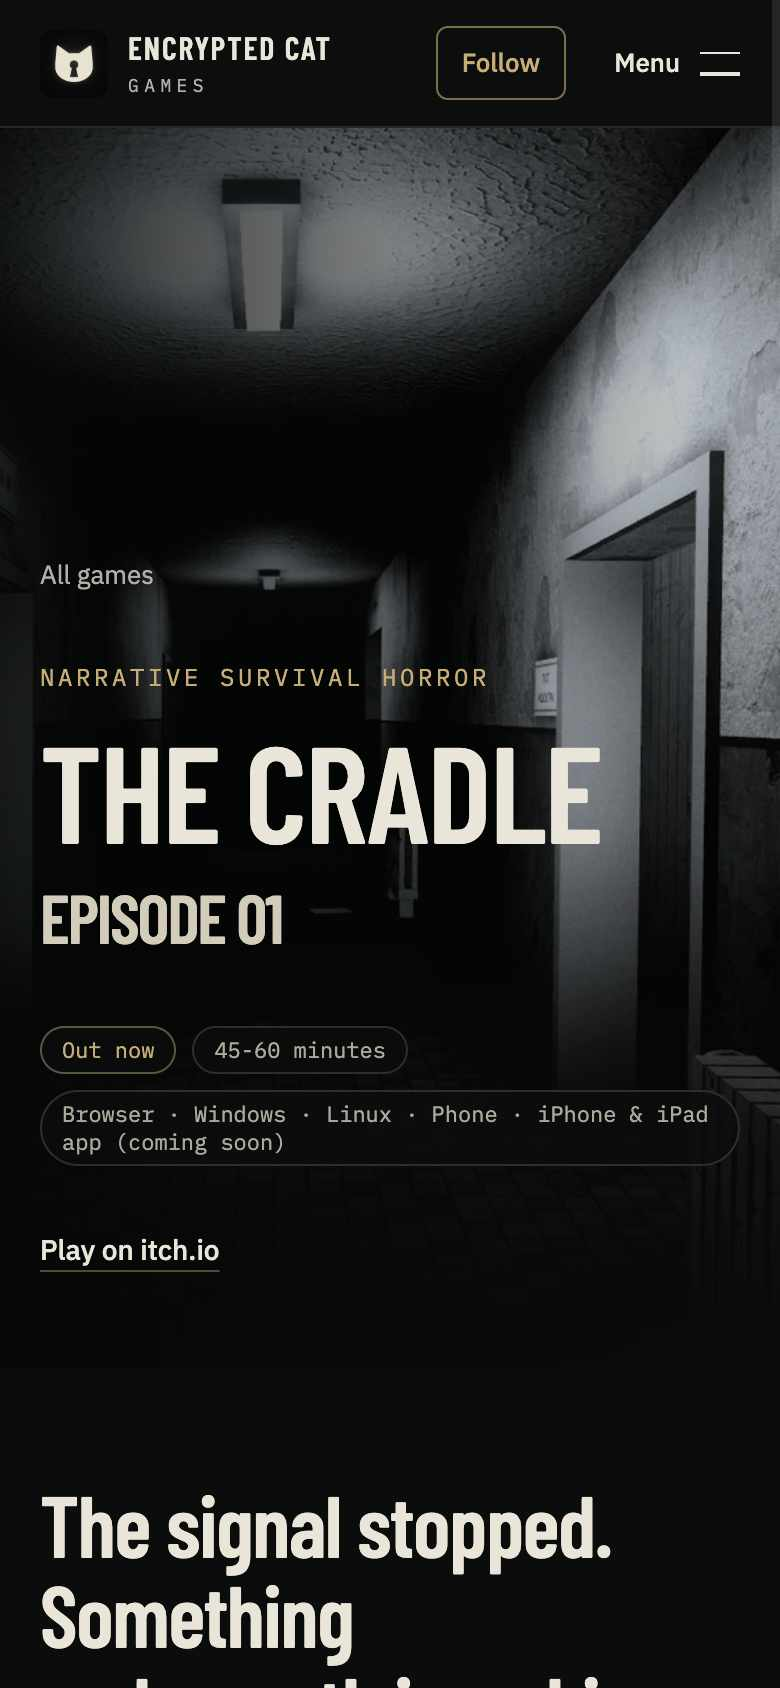
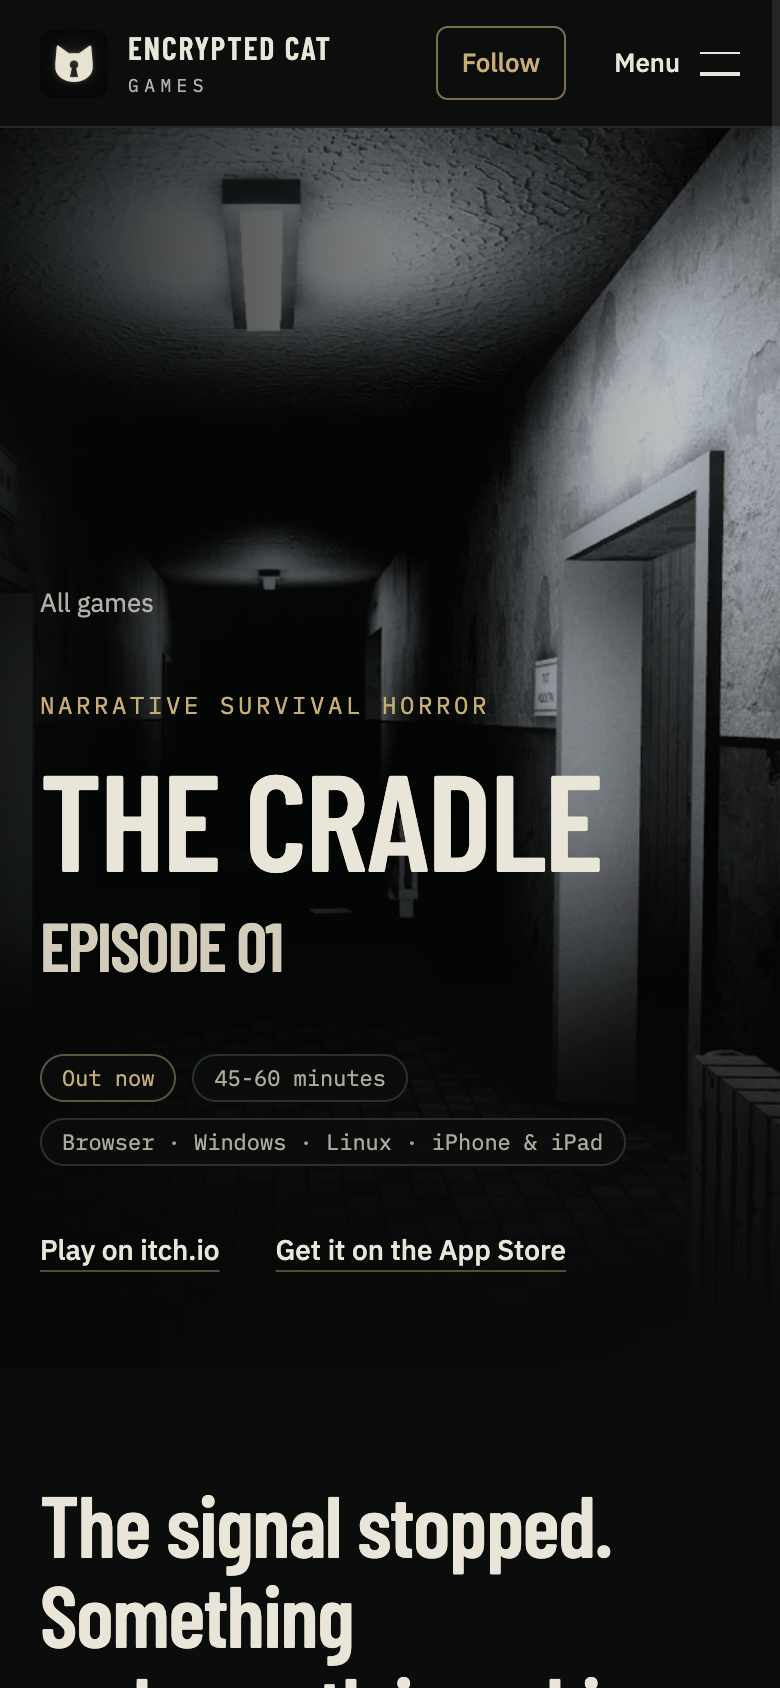
The Cradle Episode 01 is on the App Store: link it on the game page, catalog and Support
Work item 22. Platforms now read iPhone & iPad, the coming-soon note is gone,
the App Store link sits next to itch.io, and Support no longer says coming soon.

diff --git a/src/data/games.ts b/src/data/games.ts
@@ -12,9 +12,9 @@ export const games = [
     description:
       'September, 1996. A radio engineer descends beneath an abandoned Soviet sanatorium to restore a silent station. The night shift is missing. The building is listening.',
     status: 'Out now',
-    platforms: 'Browser · Windows · Linux · Phone',
+    platforms: 'Browser · Windows · Linux · iPhone & iPad',
     // Announced but not yet released; shown after the platforms as "(coming soon)".
-    comingSoon: 'iPhone & iPad app',
+    comingSoon: '',
     platformTags: ['browser', 'desktop', 'mobile'] as Platform[],
     length: '45-60 minutes',
     languages: 'English & Russian',
@@ -34,7 +34,8 @@ export const games = [
         'Medical cards, duty logs, and old tapes tell a fragmented story. Discover three different endings.',
       ],
     ],
-    appStoreUrl: '',
+    appStoreUrl:
+      'https://apps.apple.com/app/the-cradle-episode-01/id6823263497',
     // The homepage carousel's picture for this game.
     hero: {
       image: '/images/episode-01-1.webp',

diff --git a/src/styles/global.css b/src/styles/global.css
@@ -1031,6 +1031,11 @@ summary:focus-visible {
 .game-hero-meta li {
   background: #0b0c0ccc;
 }
+.game-hero-links {
+  display: flex;
+  flex-wrap: wrap;
+  gap: 8px 28px;
+}
 .back-link {
   display: inline-block;
   font-size: 13px;
@@ -1057,6 +1062,9 @@ summary:focus-visible {
 }
 .game-overview aside h2 {
   font-size: 2.5rem;
+}
+.game-overview aside .text-link {
+  margin-right: 24px;
 }
 .lead {
   font-size: 18px;

diff --git a/src/data/structured-data.ts b/src/data/structured-data.ts
@@ -62,7 +62,7 @@ export const gameData = (game: Game) => ({
         : {}),
       author: { '@id': studio['@id'] },
       publisher: { '@id': studio['@id'] },
-      sameAs: [game.url].filter(Boolean),
+      sameAs: [game.url, game.appStoreUrl].filter(Boolean),
     },
   ],
 });
